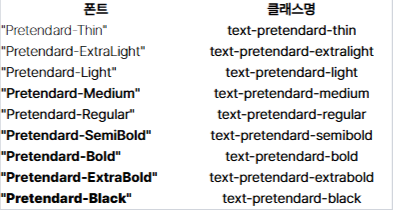
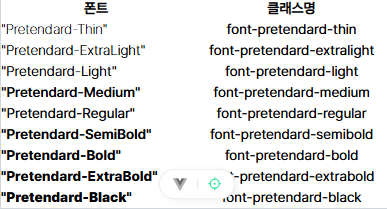
Docs: Tailwind 관련 내용 수정

diff --git a/src/pages/TestPage.vue b/src/pages/TestPage.vue
@@ -86,7 +86,7 @@ const pretendardFontList = fontList
         <tbody>
           <tr v-for="font in pretendardFontList" :key="font.name">
             <td :style="{ fontFamily: font.value }">{{ font.value }}</td>
-            <td class="text-center">text-{{ font.name }}</td>
+            <td class="text-center">font-{{ font.name }}</td>
           </tr>
         </tbody>
       </table>

diff --git a/README.md b/README.md
@@ -112,15 +112,15 @@ npm run lint
 
 | 폰트 이름               | 클래스명 예시                |
 | ----------------------- | ---------------------------- |
-| "Pretendard-Thin"       | `text-pretendard-thin`       |
-| "Pretendard-ExtraLight" | `text-pretendard-extralight` |
-| "Pretendard-Light"      | `text-pretendard-light`      |
-| "Pretendard-Medium"     | `text-pretendard-medium`     |
-| "Pretendard-Regular"    | `text-pretendard-regular`    |
-| "Pretendard-SemiBold"   | `text-pretendard-semibold`   |
-| "Pretendard-Bold"       | `text-pretendard-bold`       |
-| "Pretendard-ExtraBold"  | `text-pretendard-extrabold`  |
-| "Pretendard-Black"      | `text-pretendard-black`      |
+| "Pretendard-Thin"       | `font-pretendard-thin`       |
+| "Pretendard-ExtraLight" | `font-pretendard-extralight` |
+| "Pretendard-Light"      | `font-pretendard-light`      |
+| "Pretendard-Medium"     | `font-pretendard-medium`     |
+| "Pretendard-Regular"    | `font-pretendard-regular`    |
+| "Pretendard-SemiBold"   | `font-pretendard-semibold`   |
+| "Pretendard-Bold"       | `font-pretendard-bold`       |
+| "Pretendard-ExtraBold"  | `font-pretendard-extrabold`  |
+| "Pretendard-Black"      | `font-pretendard-black`      |
 
 ![폰트값 사진](src/assets/imgs/fonts.png)
 
